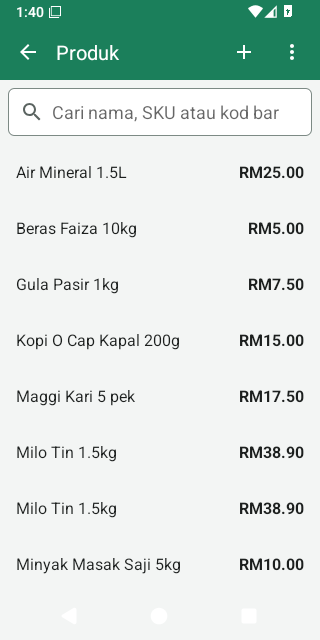
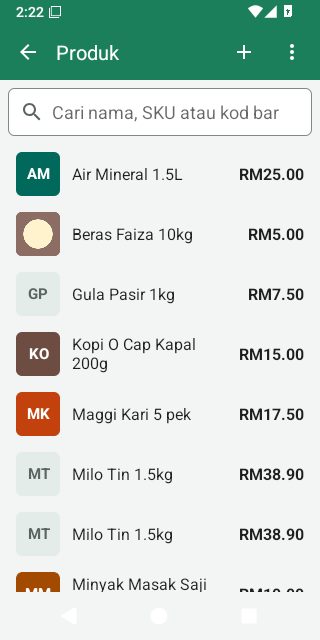
Guide pictures from CI: the Menu, Settings, Inventory, Products, selling screen, payment, shift (D-074)

diff --git a/site/panduan.html b/site/panduan.html
@@ -309,6 +309,7 @@ dengan harga lama) dan dicatat dalam Log aktiviti.</p>
 <h3 id="menu">Menu</h3>
 <p>Menu hanya menunjukkan apa yang boleh dilakukan oleh orang yang sedang log masuk, sebagai butang besar bergambar dalam
 tiga kumpulan: <b>Bil ini</b>, <b>Kaunter</b> dan <b>Urus kedai</b>. Imbasan semasa ia terbuka menutupnya dan masuk ke bil seperti biasa.</p>
+<figure class="wide"><img src="img/ms-menu.png" alt="Menu: butang bergambar dalam kumpulan" width="240" loading="lazy"><figcaption>Menu seperti yang dilihat oleh pemilik (tatal untuk baki Urus kedai).</figcaption></figure>
 <div class="table-wrap"><table>
 <tr><th>Pilihan menu</th><th>Kegunaannya</th></tr>
 <tr><th colspan="2">Bil ini</th></tr>

diff --git a/site/guide.html b/site/guide.html
@@ -297,6 +297,7 @@ recorded in the Activity log.</p>
 <h3 id="menu">The Menu</h3>
 <p>The Menu shows only what the signed-in person may do, as large buttons with pictures in three groups:
 <b>This bill</b>, <b>Till</b> and <b>Manage shop</b>. A scan while it is open closes it and goes on the bill as usual.</p>
+<figure class="wide"><img src="img/en-menu.png" alt="The Menu: buttons with pictures in groups" width="240" loading="lazy"><figcaption>The Menu as the owner sees it (scroll for the rest of Manage shop).</figcaption></figure>
 <div class="table-wrap"><table>
 <tr><th>Menu entry</th><th>What it is</th></tr>
 <tr><th colspan="2">This bill</th></tr>

diff --git a/docs/PHASES.md b/docs/PHASES.md
@@ -1933,3 +1933,45 @@ RM4) — "please fix this issue in better way and do it your best".
    rows stay.
 4. **Two tills:** update one till only, add a price there: the other (1.14) still charges the first price; after
    updating it, it charges the ladder without anything re-entered.
+
+---
+
+## Next (unreleased) — icons and groups (D-074)
+
+Asked by the owner (2026-10-12): "improve the UI UX, to make more easier for cashier, manager and owner … like put
+some icon". Branch `ui-icons` (main untouched); no version bump yet.
+
+- [x] **Menu = one sheet of tiles** (`MenuSheet`): icon over word, groups This bill / Till / Manage shop — the back
+      office one tap away (was behind "Manage shop ›"); held-bill count on its tile; Clear bill in red; same rules for
+      who sees what; a scan closes it; tracked like other dialogs (closes when the till locks — the old PopupMenu did not)
+- [x] **Settings in five groups** with an icon per row; Inventory hub icons
+- [x] **Icons on buttons** (`setIconText`, tinted and centred on API 21): Hold, Pay, sale result (Print, Share, New sale),
+      sale screen (Print a copy, Share, Refund, Void), shift & cash, payment methods by kind, printer/scanner/setup/sync
+      buttons; Delete / Remove PIN / Turn off sync in red
+- [x] **Products list**: picture or colour square with initials (like the tile) and the category
+- [x] Texts fixed: needs-shift and credit-off messages, the last sale's "Print receipt"/"Print a copy", backup help;
+      About credits the Material icons (Apache 2.0)
+- [x] Docs: user guide EN + MS (Menu and Settings tables in groups, paths "Menu → Manage shop → …", captions, Menu
+      picture), `features.md`, `codemap.md`, `architecture.md`, `recipes.md`, `glossary.md`, D-074. Privacy policy and
+      Play answers unchanged (nothing new stored, sent or asked)
+- [x] Local: `:core:test`, `:app:testDebugUnitTest`, lint (no new warnings of note), instrumented tests compile
+- [x] CI on the branch (runs 38257251065, 38259221561, 38261007337): all jobs green — instrumented tests on **API 21 and
+      36**, tablet, release smoke API 21 and 36, lint; screenshots checked on API 21 (the new vector icons parse there),
+      API 36 and the tablet. Release APK **1,654,672 bytes** (1.15.0: 1,612,004 — about +43 KB for ~50 icons and the new
+      screens' code). In the third run `StaffTest.theOwnersFirstPinTurnsLoginOnAndTheSignInSurvivesARestart` failed once
+      on API 21 (line 109: the cashier not signed in after the simulated restart) and passed on the re-run — flaky, not
+      touched by this change; worth a look on its own
+- [x] Guide pictures refreshed from run 38261007337: phone `sell`, `sell-empty`, `pay`, `settings`, `inventory`,
+      `products`, `shift`, the new `menu` (EN + MS), and `tablet-sell`
+
+### Needs real-device testing (D-074)
+
+1. **Menu as cashier** (PIN on, Cashier role): only This bill and Till tiles; no Manage shop group. Tap a tile twice
+   fast: one screen opens. Scan while the Menu is open: it closes and the item goes on the bill.
+2. **Menu as owner**: all three groups; Products, Reports, Settings open in one tap. With a held bill the Held bills tile
+   shows the count. Phone sideways: the sheet scrolls, nothing cut off.
+3. **Lock while the Menu is open** (wait for the idle lock): after signing in again the Menu is closed.
+4. **Settings** groups and icons; **Products** list squares (with a picture, a colour, a category colour, none).
+5. **Buttons**: Hold/Pay icons, a big font size (Android settings → Font size largest): words and icons still fit; a
+   disabled Pay shows a grey icon. Payment: Card and E-wallet / QR show their icons.
+6. **Last sale** with auto-print off: the button says "Print receipt", after printing "Print a copy".
